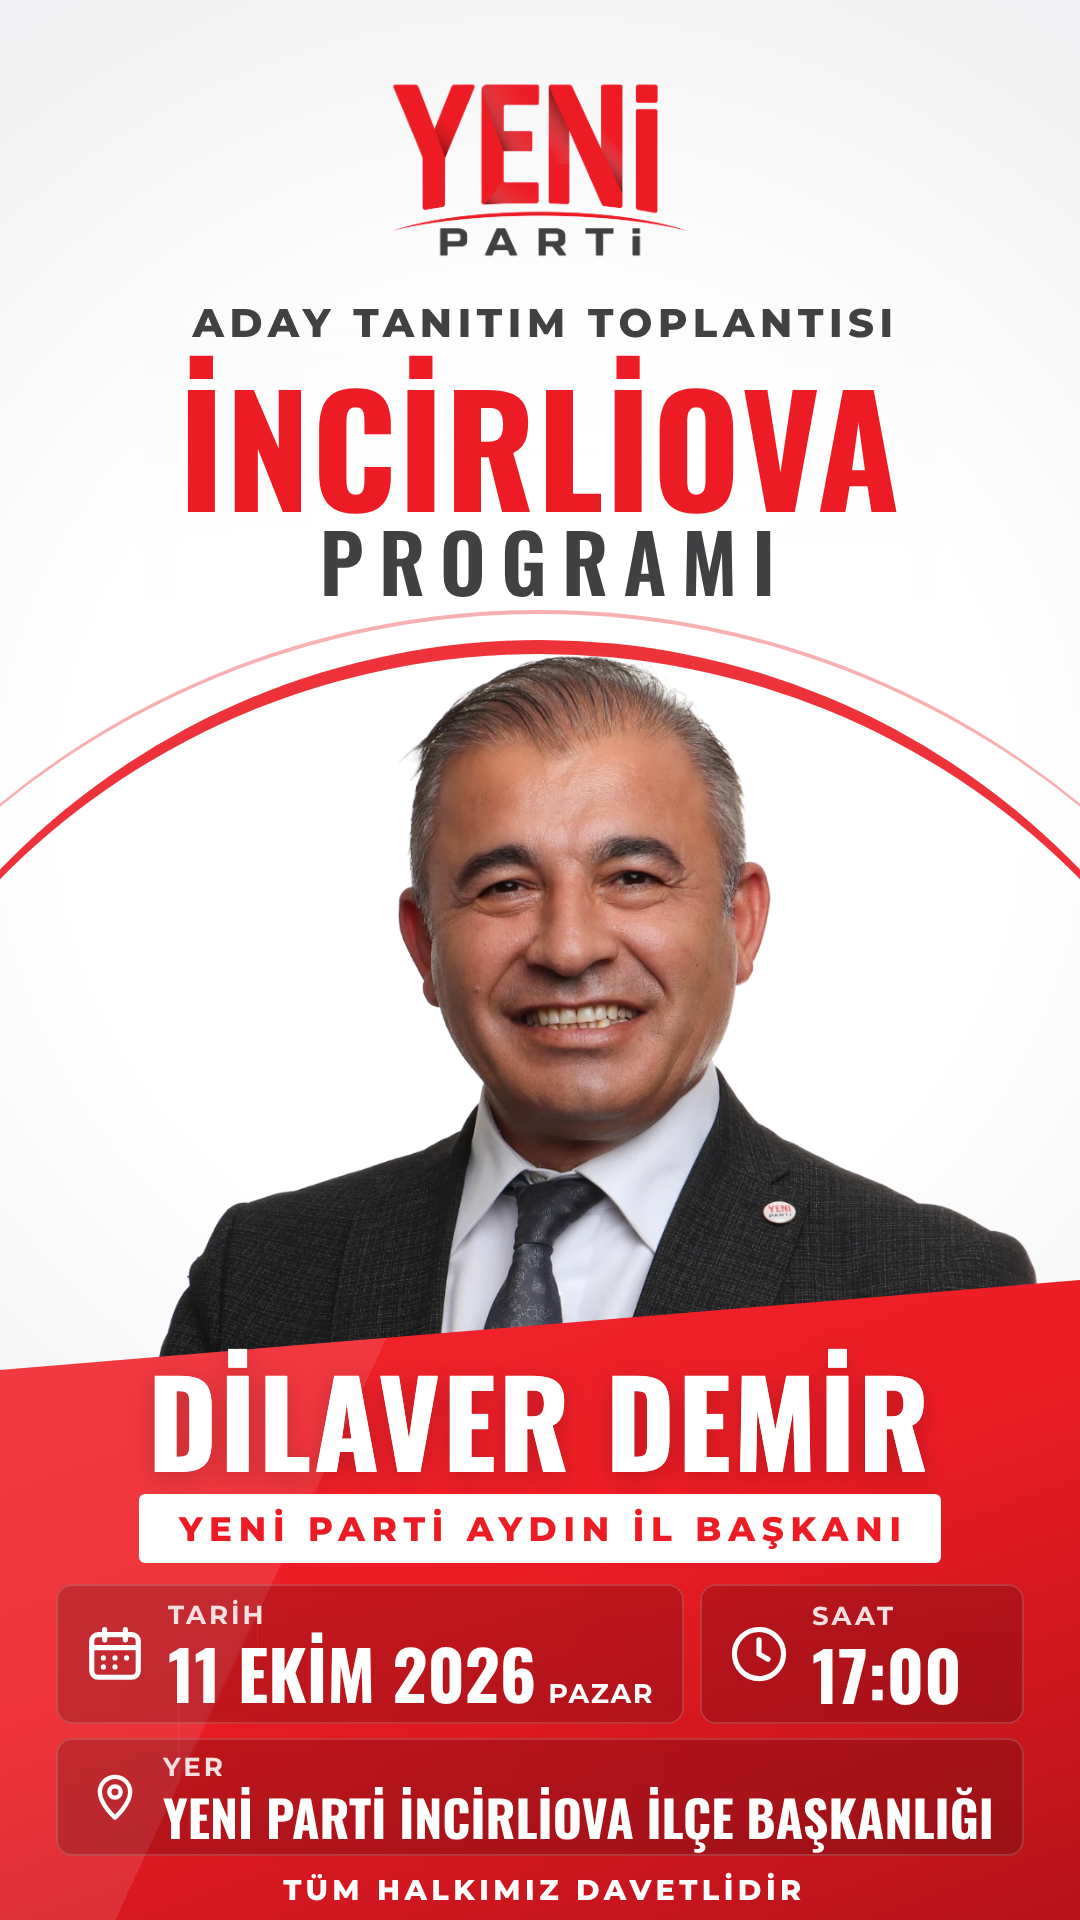
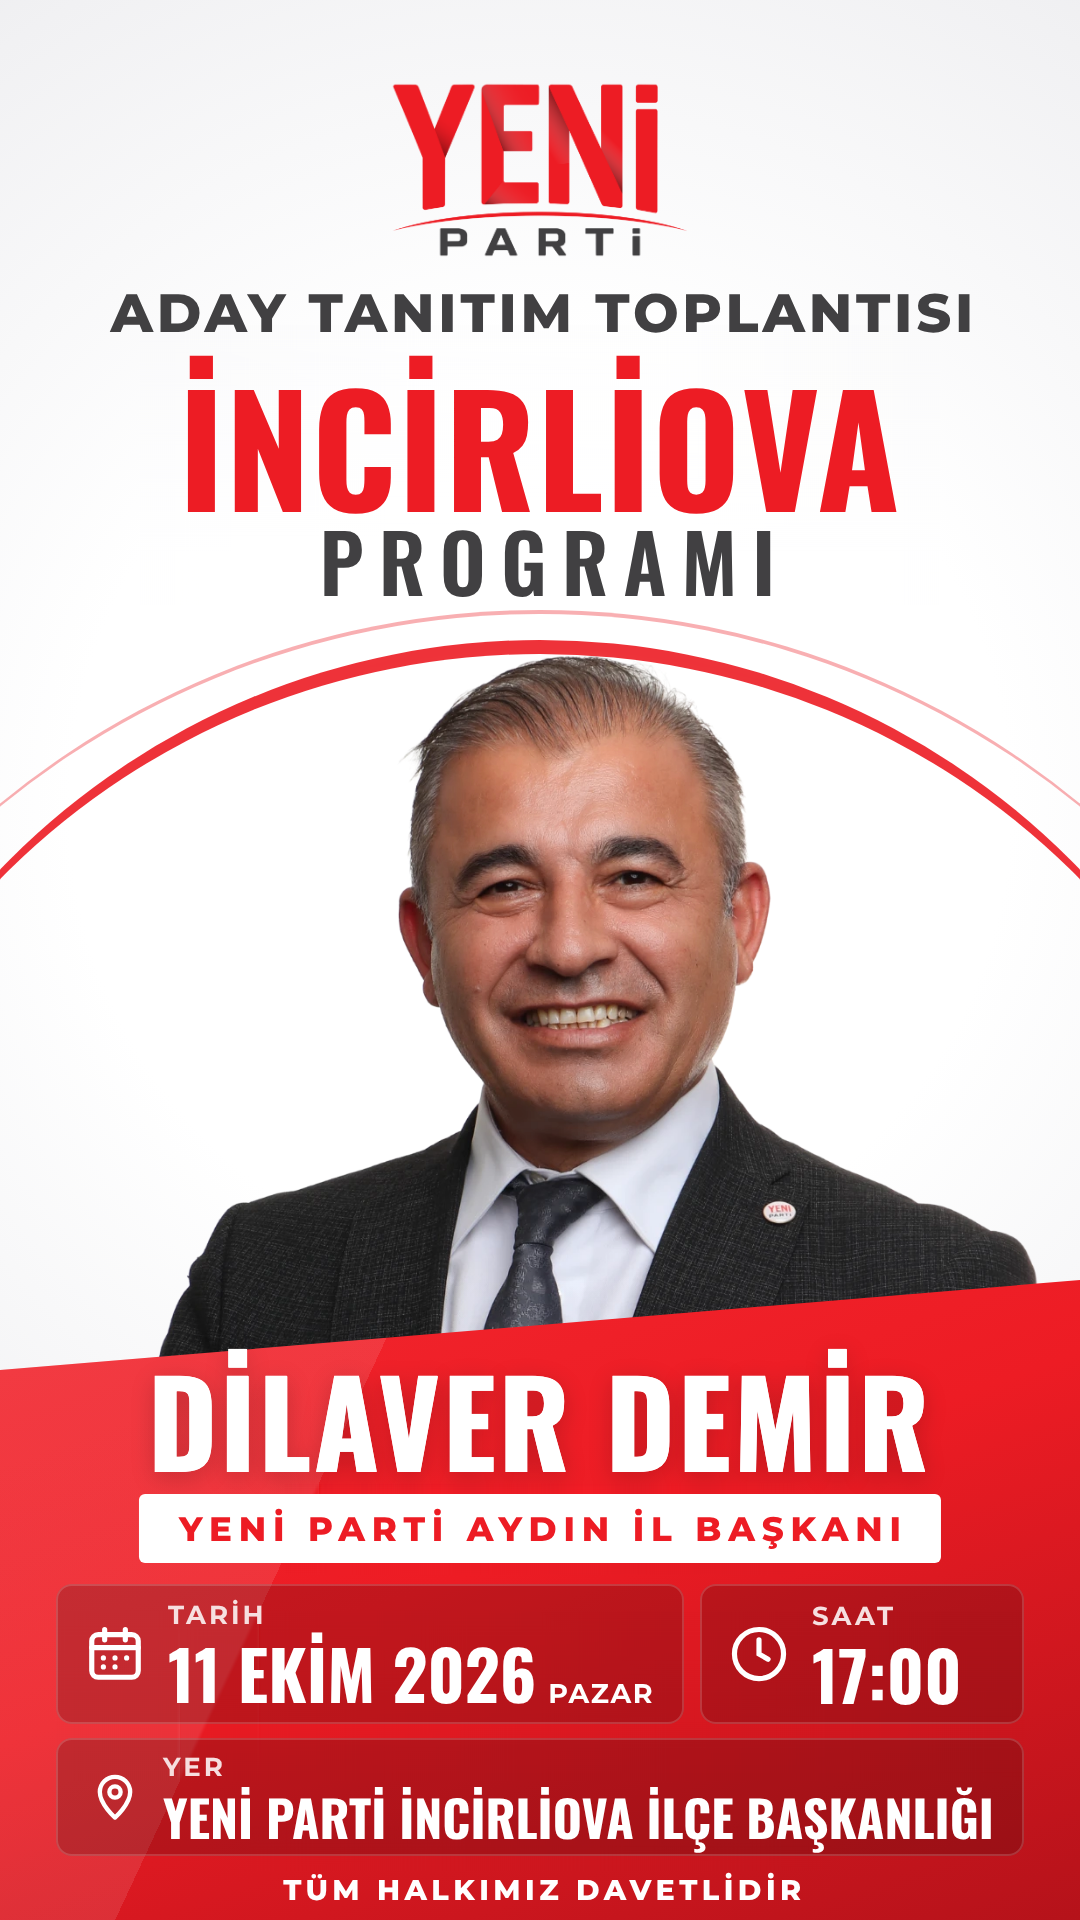
İncirliova: Aday Tanıtım Toplantısı başlığı büyütüldü
Claude-Session: https://claude.ai/code/session_01SatttGbgBLoCnk9KGLypWv

Changed region(s): [[0.0917, 0.1562, 0.9167, 0.1875]]

diff --git a/tasarim/kisisel/incirliova-orgut/incirliova-orgut.html b/tasarim/kisisel/incirliova-orgut/incirliova-orgut.html
@@ -10,7 +10,7 @@ body{position:relative;background:url(zemin.png) 0 0/1080px 1920px no-repeat}
 .m{position:absolute;left:0;width:1080px;text-align:center;white-space:nowrap;line-height:1}
 
 /* Kuşadası şablonundan ölçülen değerler */
-.ust{top:var(--t1);font:40px M8;letter-spacing:.14em;padding-left:.14em;color:var(--koyu)}
+.ust{top:var(--t1);font:54px M8;letter-spacing:.07em;padding-left:.07em;color:var(--koyu)}
 .sehir{top:var(--t2);font:var(--sehir-boy,150.6px) O7;letter-spacing:1.6px;color:var(--kirmizi)}
 .program{top:var(--t3);font:80.2px O6;letter-spacing:.186em;padding-left:.186em;color:var(--koyu)}
 
@@ -28,7 +28,7 @@ body{position:relative;background:url(zemin.png) 0 0/1080px 1920px no-repeat}
 .kutu .gun{font:27px M7;letter-spacing:.06em;color:#fff;margin-left:12px}
 .kutu b.yer{font-size:var(--yer-boy,50px);white-space:nowrap}
 </style>
-<body style="--t1:var(--T1,298px);--t2:var(--T2,332px);--t3:var(--T3,500px)">
+<body style="--t1:var(--T1,280px);--t2:var(--T2,332px);--t3:var(--T3,500px)">
 
 <div class="m ust">ADAY TANITIM TOPLANTISI</div>
 <div class="m sehir">İNCİRLİOVA</div>
